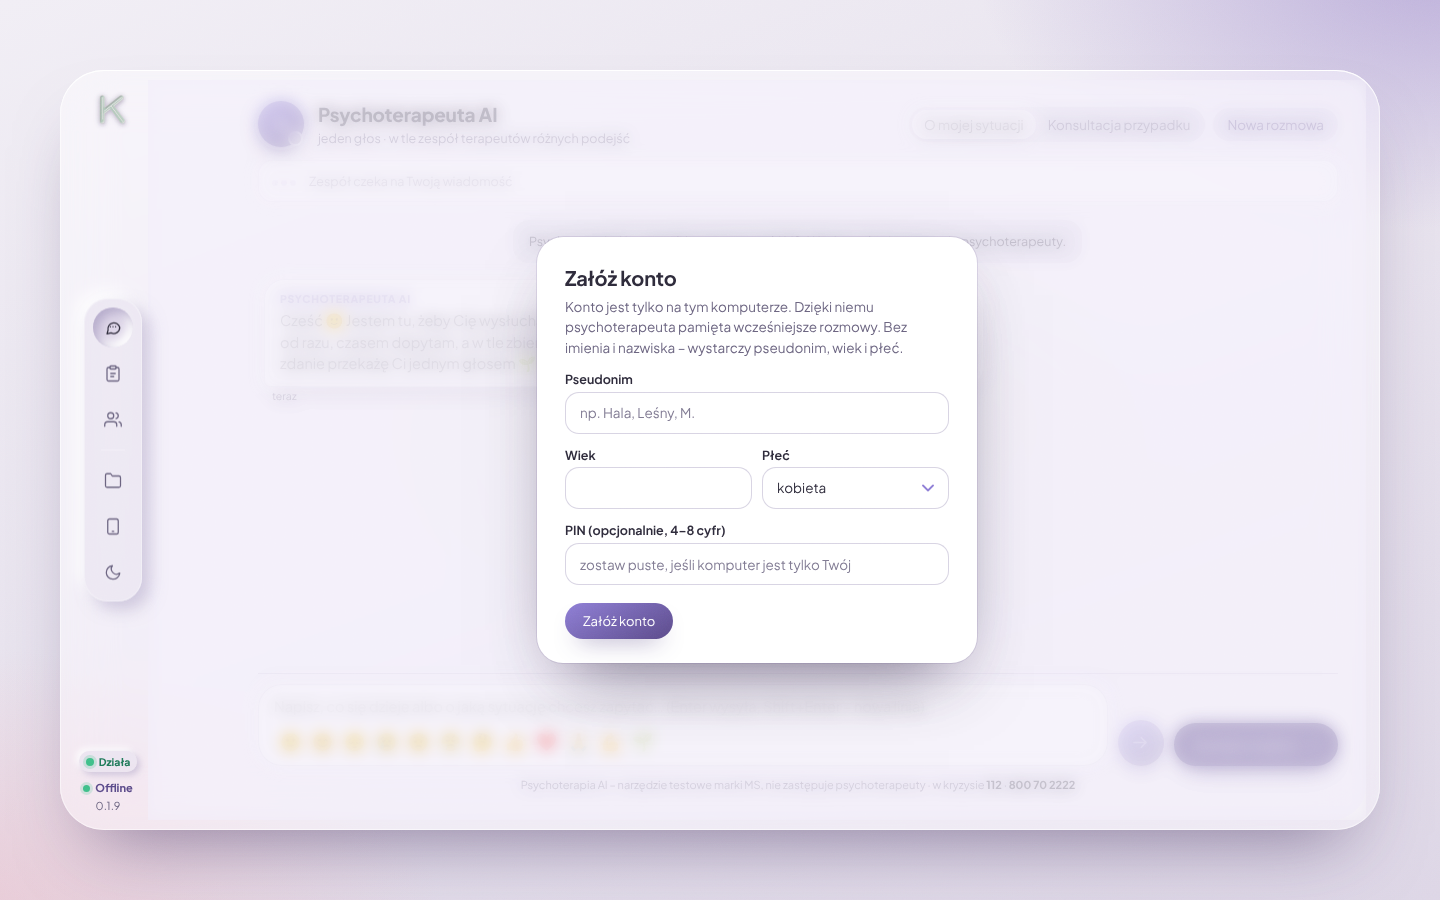
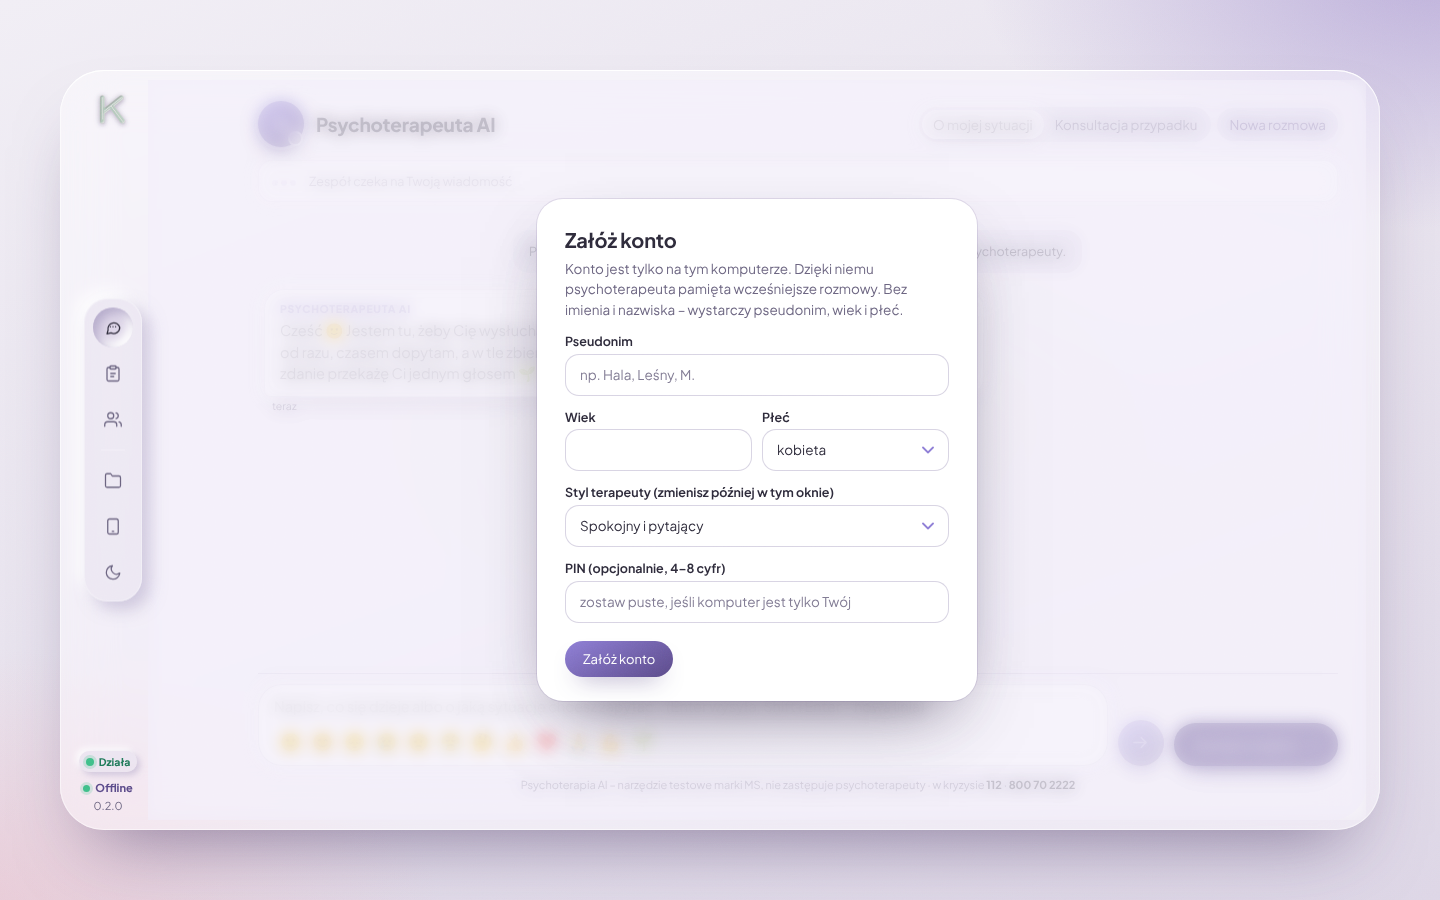
ms-psycho: przeniesienie – aktualna instrukcja Operatora i zrzuty 0.2.1
Claude-Session: https://claude.ai/code/session_01WHTxQxawiQrHTH1aCMRY1X

diff --git a/ms-psycho/przeniesienie/narzedzia/psycho/INSTRUKCJA-OPERATORA-psycho.md b/ms-psycho/przeniesienie/narzedzia/psycho/INSTRUKCJA-OPERATORA-psycho.md
@@ -1,10 +1,10 @@
-# Instrukcja dla Operatora: MS Konsylium Psychologiczne 0.2.0 (commit f95ee72)
+# Instrukcja dla Operatora: MS Konsylium Psychologiczne 0.2.1 (commit c3c759f)
 
 Osobna aplikacja – **nie podmieniać** niczego w MS Konsylium (lekarskim). Ma własną nazwę, własne ustawienia i port iPada 8766, więc obie aplikacje mogą działać obok siebie.
 
 ## Pliki (ten katalog)
-- `MS-Konsylium-Psychologiczne-0.2.0-win-x64-f95ee72.zip` – aplikacja Windows (przenośna, ok. 127 MB).
-- `MS-Konsylium-Psychologiczne-folder-ms-psycho-f95ee72.zip` – folder pracy dla Claude (CLAUDE.md, agenci, skrypty, config z numerami pomocy, przypadki testowe PSY‑01…10). To samo co katalog `ms-psycho/` na gałęzi `claude/project-thread-ud83qw`.
+- `MS-Konsylium-Psychologiczne-0.2.1-win-x64-c3c759f.zip` – aplikacja Windows (przenośna, ok. 127 MB).
+- `MS-Konsylium-Psychologiczne-folder-ms-psycho-c3c759f.zip` – folder pracy dla Claude (CLAUDE.md, agenci, skrypty, config z numerami pomocy, przypadki testowe PSY‑01…10). To samo co katalog `ms-psycho/` na gałęzi `claude/project-thread-ud83qw`.
 - `zrzuty/` – jak wygląda (prezent, Rozmowa, kryzys, Pokój, Wnioski).
 
 ## Najprostsza droga na PC bez gita i node (z GitHuba)
@@ -33,3 +33,6 @@ Usuń oba foldery; ustawienia są w `%APPDATA%\MS Konsylium Psychologiczne`.
 
 ## Nowe w 0.2.0 (1.11.2026 wieczór)
 - Przycisk „Zacznij sesję” (sesja z ramą, karta zadania, suwaki na koniec). Nowe pliki w `konta/<konto>/`: `zadanie.json`, `suwaki.json` – zachować przy podmianie folderu.
+
+## Nowe w 0.2.1 (2.11.2026)
+- Styl terapeuty przy koncie; notatka superwizora po sesji. Nowy plik `konta/<konto>/superwizja.json` – zachować.
